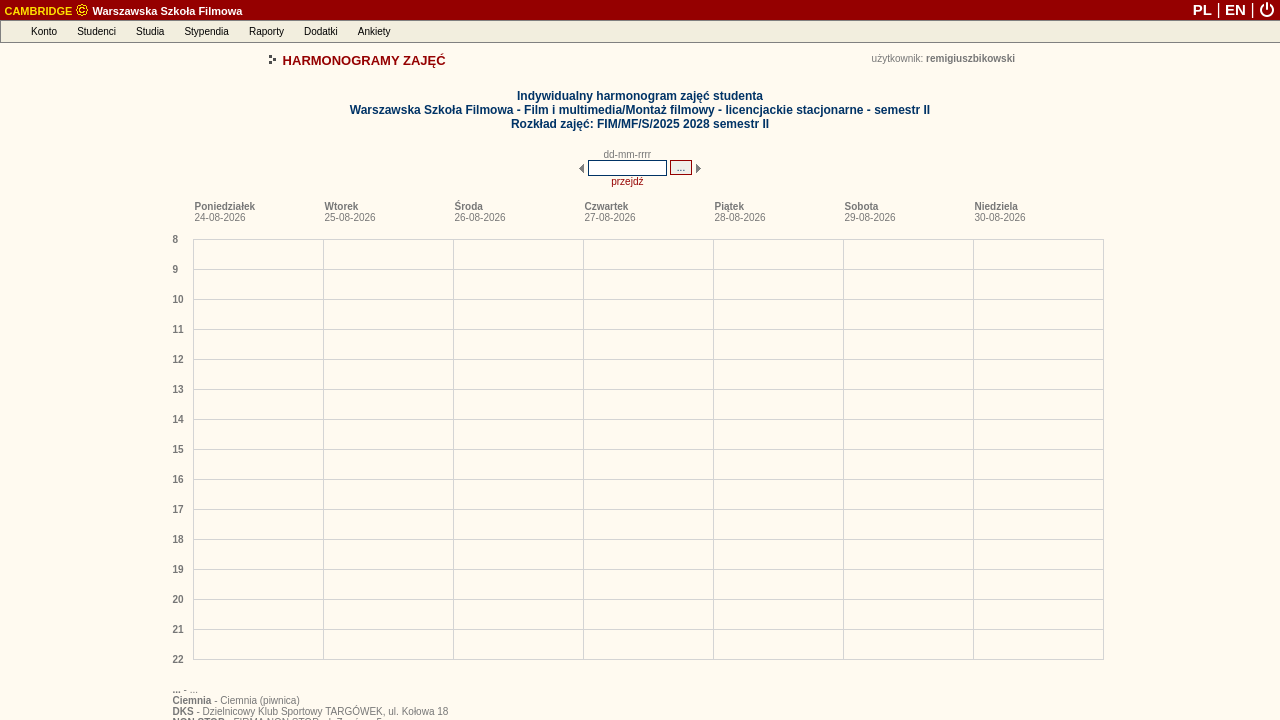
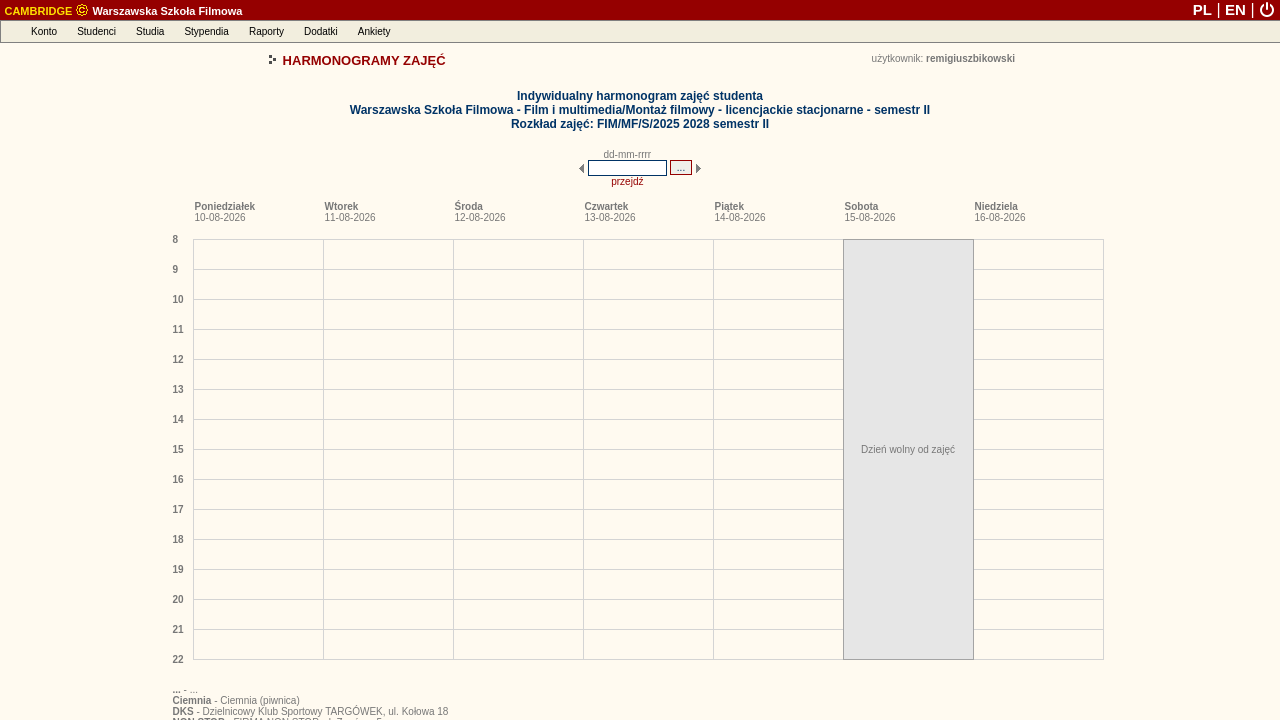
deploy: 0089a95886e71301e0455e70b701082a0dc46df1

Changed region(s): [[0.6562, 0.3056, 0.7812, 0.9167]]

diff --git a/debug_harmonogram_page.html b/debug_harmonogram_page.html
@@ -163,8 +163,8 @@
 
 
 
-<link rel="stylesheet" type="text/css" href="/palio/html.run?_Instance=cambridge&amp;_PageID=4&amp;_SessionID=1707148&amp;_SessionKey=1797391153&amp;ZoomView=&amp;DisplayMode=&amp;_CheckSum=225564752">
-<script language="javascript" type="text/javascript" src="/palio/html.run?_Instance=cambridge&amp;_PageID=5&amp;_SessionID=1707148&amp;_SessionKey=1797391153&amp;_CheckSum=-1857461768"></script>
+<link rel="stylesheet" type="text/css" href="/palio/html.run?_Instance=cambridge&amp;_PageID=4&amp;_SessionID=1707366&amp;_SessionKey=410224080&amp;ZoomView=&amp;DisplayMode=&amp;_CheckSum=1309540697">
+<script language="javascript" type="text/javascript" src="/palio/html.run?_Instance=cambridge&amp;_PageID=5&amp;_SessionID=1707366&amp;_SessionKey=410224080&amp;_CheckSum=-272144399"></script>
 
 
 
@@ -354,9 +354,9 @@ CambridgeMenuBar = new jsDOMenuBar("absolute", true)
 
 AccountMenu=new jsDOMenu(200, "", "absolute", false);
 
-AccountMenu.addMenuItem(new menuItem("Zmiana hasła", "", "/palio/html.run?_Instance=cambridge&amp;_PageID=11&amp;_SessionID=1707148&amp;_SessionKey=1797391153&amp;_CheckSum=171572073"));
+AccountMenu.addMenuItem(new menuItem("Zmiana hasła", "", "/palio/html.run?_Instance=cambridge&amp;_PageID=11&amp;_SessionID=1707366&amp;_SessionKey=410224080&amp;_CheckSum=-1869259680"));
 
-  AccountMenu.addMenuItem(new menuItem("Komunikator", "", "/palio/html.run?_Instance=cambridge&amp;_PageID=180&amp;_SessionID=1707148&amp;_SessionKey=1797391153&amp;_CheckSum=-633387708"));
+  AccountMenu.addMenuItem(new menuItem("Komunikator", "", "/palio/html.run?_Instance=cambridge&amp;_PageID=180&amp;_SessionID=1707366&amp;_SessionKey=410224080&amp;_CheckSum=-232658139"));
 
 
 
@@ -369,7 +369,7 @@ AccountMenu.addMenuItem(new menuItem("Yammer", "", "https://www.yammer.com/onlin
 
 AccountMenu.addMenuItem(new menuItem("-"));
 
-AccountMenu.addMenuItem(new menuItem("Wylogowanie", "", "https://student.szkolafilmowa.pl/palio/html.run?_Instance=cambridge&amp;_PageID=10012&amp;_Action=Logout&amp;_SessionID=1707148&amp;_SessionKey=1797391153"));
+AccountMenu.addMenuItem(new menuItem("Wylogowanie", "", "https://student.szkolafilmowa.pl/palio/html.run?_Instance=cambridge&amp;_PageID=10012&amp;_Action=Logout&amp;_SessionID=1707366&amp;_SessionKey=410224080"));
 
 CambridgeMenuBar.addMenuBarItem(new menuBarItem("Konto", AccountMenu));
 
@@ -382,12 +382,12 @@ StudentsMenu=new jsDOMenu(320, "", "absolute", false);
 
 
 
-StudentsMenu.addMenuItem(new menuItem("Moje dane", "", "/palio/html.run?_Instance=cambridge&amp;_PageID=185&amp;_SessionID=1707148&amp;_SessionKey=1797391153&amp;_CheckSum=-1696548641"));
+StudentsMenu.addMenuItem(new menuItem("Moje dane", "", "/palio/html.run?_Instance=cambridge&amp;_PageID=185&amp;_SessionID=1707366&amp;_SessionKey=410224080&amp;_CheckSum=-1375332310"));
 
 
 
 
-StudentsMenu.addMenuItem(new menuItem("Moje indeksy", "", "/palio/html.run?_Instance=cambridge&amp;_PageID=186&amp;_SessionID=1707148&amp;_SessionKey=1797391153&amp;_CheckSum=667799550"));
+StudentsMenu.addMenuItem(new menuItem("Moje indeksy", "", "/palio/html.run?_Instance=cambridge&amp;_PageID=186&amp;_SessionID=1707366&amp;_SessionKey=410224080&amp;_CheckSum=-744873685"));
 
 
 
@@ -426,7 +426,7 @@ StudiesMenu=new jsDOMenu(250, "", "absolute", false);
 
 
 
-StudiesMenu.addMenuItem(new menuItem("Moje plany studiów", "", "/palio/html.run?_Instance=cambridge&amp;_PageID=258&amp;_SessionID=1707148&amp;_SessionKey=1797391153&amp;_CheckSum=361390936"));
+StudiesMenu.addMenuItem(new menuItem("Moje plany studiów", "", "/palio/html.run?_Instance=cambridge&amp;_PageID=258&amp;_SessionID=1707366&amp;_SessionKey=410224080&amp;_CheckSum=-2001683823"));
 
 
 
@@ -434,13 +434,13 @@ StudiesMenu.addMenuItem(new menuItem("Moje plany studiów", "", "/palio/html.run
 
 
 
-StudiesMenu.addMenuItem(new menuItem("Harmonogramy zajęć", "", "/palio/html.run?_Instance=cambridge&amp;_PageID=95&amp;_SessionID=1707148&amp;_SessionKey=1797391153&amp;_CheckSum=-1013137939"));
+StudiesMenu.addMenuItem(new menuItem("Harmonogramy zajęć", "", "/palio/html.run?_Instance=cambridge&amp;_PageID=95&amp;_SessionID=1707366&amp;_SessionKey=410224080&amp;_CheckSum=-1907476132"));
 
-StudiesMenu.addMenuItem(new menuItem("Harmonogramy moich zajęć", "", "/palio/html.run?_Instance=cambridge&amp;_PageID=191&amp;_SessionID=1707148&amp;_SessionKey=1797391153&amp;_CheckSum=2011310372"));
+StudiesMenu.addMenuItem(new menuItem("Harmonogramy moich zajęć", "", "/palio/html.run?_Instance=cambridge&amp;_PageID=191&amp;_SessionID=1707366&amp;_SessionKey=410224080&amp;_CheckSum=-1532818619"));
 
-StudiesMenu.addMenuItem(new menuItem("Harmonogramy innych zajęć", "", "/palio/html.run?_Instance=cambridge&amp;_PageID=248&amp;_SessionID=1707148&amp;_SessionKey=1797391153&amp;_CheckSum=81041047"));
+StudiesMenu.addMenuItem(new menuItem("Harmonogramy innych zajęć", "", "/palio/html.run?_Instance=cambridge&amp;_PageID=248&amp;_SessionID=1707366&amp;_SessionKey=410224080&amp;_CheckSum=-71064718"));
 
-StudiesMenu.addMenuItem(new menuItem("Harmonogramy zajętości sal", "", "/palio/html.run?_Instance=cambridge&amp;_PageID=269&amp;_SessionID=1707148&amp;_SessionKey=1797391153&amp;_CheckSum=-1288878280"));
+StudiesMenu.addMenuItem(new menuItem("Harmonogramy zajętości sal", "", "/palio/html.run?_Instance=cambridge&amp;_PageID=269&amp;_SessionID=1707366&amp;_SessionKey=410224080&amp;_CheckSum=993122993"));
 
 
 
@@ -470,9 +470,9 @@ CambridgeMenuBar.addMenuBarItem(new menuBarItem("Studia", StudiesMenu));
 ScholarshipsMenu=new jsDOMenu(230, "", "absolute", false);
 
 
-ScholarshipsMenu.addMenuItem(new menuItem("Moje stypendia", "", "/palio/html.run?_Instance=cambridge&amp;_PageID=187&amp;_SessionID=1707148&amp;_SessionKey=1797391153&amp;_CheckSum=-1262819555"));
+ScholarshipsMenu.addMenuItem(new menuItem("Moje stypendia", "", "/palio/html.run?_Instance=cambridge&amp;_PageID=187&amp;_SessionID=1707366&amp;_SessionKey=410224080&amp;_CheckSum=-114415060"));
 
-ScholarshipsMenu.addMenuItem(new menuItem("Mój numer rachunku", "", "/palio/html.run?_Instance=cambridge&amp;_PageID=380&amp;_SessionID=1707148&amp;_SessionKey=1797391153&amp;_CheckSum=-431563774"));
+ScholarshipsMenu.addMenuItem(new menuItem("Mój numer rachunku", "", "/palio/html.run?_Instance=cambridge&amp;_PageID=380&amp;_SessionID=1707366&amp;_SessionKey=410224080&amp;_CheckSum=328041639"));
 
 
 
@@ -482,9 +482,9 @@ ScholarshipsMenu.addMenuItem(new menuItem("Mój numer rachunku", "", "/palio/htm
 ScholarshipsMenu.addMenuItem(new menuItem("-"));
 
 
-ScholarshipsMenu.addMenuItem(new menuItem("Fundusze stypendialne", "", "/palio/html.run?_Instance=cambridge&amp;_PageID=54&amp;_SessionID=1707148&amp;_SessionKey=1797391153&amp;_CheckSum=-203918390"));
+ScholarshipsMenu.addMenuItem(new menuItem("Fundusze stypendialne", "", "/palio/html.run?_Instance=cambridge&amp;_PageID=54&amp;_SessionID=1707366&amp;_SessionKey=410224080&amp;_CheckSum=889574367"));
 
-ScholarshipsMenu.addMenuItem(new menuItem("Rodzaje stypendiów", "", "/palio/html.run?_Instance=cambridge&amp;_PageID=55&amp;_SessionID=1707148&amp;_SessionKey=1797391153&amp;_CheckSum=-2134537495"));
+ScholarshipsMenu.addMenuItem(new menuItem("Rodzaje stypendiów", "", "/palio/html.run?_Instance=cambridge&amp;_PageID=55&amp;_SessionID=1707366&amp;_SessionKey=410224080&amp;_CheckSum=1520032992"));
 
 
 
@@ -495,7 +495,7 @@ CambridgeMenuBar.addMenuBarItem(new menuBarItem("Stypendia", ScholarshipsMenu));
 ReportsMenu=new jsDOMenu(200, "", "absolute", false);
 
 
-ReportsMenu.addMenuItem(new menuItem("Generowanie raportów", "", "/palio/html.run?_Instance=cambridge&amp;_PageID=68&amp;_SessionID=1707148&amp;_SessionKey=1797391153&amp;_CheckSum=943889671"));
+ReportsMenu.addMenuItem(new menuItem("Generowanie raportów", "", "/palio/html.run?_Instance=cambridge&amp;_PageID=68&amp;_SessionID=1707366&amp;_SessionKey=410224080&amp;_CheckSum=1480789762"));
 
 
 
@@ -505,7 +505,7 @@ CambridgeMenuBar.addMenuBarItem(new menuBarItem("Raporty", ReportsMenu));
 
 AdditionalsMenu=new jsDOMenu(200, "", "absolute", false);
 
-AdditionalsMenu.addMenuItem(new menuItem("Forum internetowe", "", "/palio/html.run?_Instance=cambridge&amp;_PageID=8001&amp;_SessionID=1707148&amp;_SessionKey=1797391153&amp;_CheckSum=200326448"));
+AdditionalsMenu.addMenuItem(new menuItem("Forum internetowe", "", "/palio/html.run?_Instance=cambridge&amp;_PageID=8001&amp;_SessionID=1707366&amp;_SessionKey=410224080&amp;_CheckSum=-1314142791"));
 
 
 
@@ -539,7 +539,7 @@ PollsMenu=new jsDOMenu(225, "", "absolute", false);
 
 
 
-PollsMenu.addMenuItem(new menuItem("Wypełnianie ankiet", "", "/palio/html.run?_Instance=cambridge&amp;_PageID=227&amp;_SessionID=1707148&amp;_SessionKey=1797391153&amp;_CheckSum=1450960374"));
+PollsMenu.addMenuItem(new menuItem("Wypełnianie ankiet", "", "/palio/html.run?_Instance=cambridge&amp;_PageID=227&amp;_SessionID=1707366&amp;_SessionKey=410224080&amp;_CheckSum=-1135252429"));
 
 
 CambridgeMenuBar.addMenuBarItem(new menuBarItem("Ankiety", PollsMenu));
@@ -576,7 +576,7 @@ CambridgeMenuBar.moveTo(0,20);
 <table width="100%" border="0" cellspacing="0" cellpadding="0" align="center">
 <tbody><tr class="top_belt">
 
-<td align="left" height="20"><b>&nbsp;<a class="belt" href="/palio/html.run?_Instance=cambridge&amp;_PageID=6&amp;_SessionID=1707148&amp;_SessionKey=1797391153&amp;_CheckSum=506886423"><span class="belt_application">CAMBRIDGE</span> <img src="/palio/html.media?_Instance=cambridge&amp;_Option=Palio&amp;_ID=51&amp;_CheckSum=684598873" width="14" height="14" border="0" style="position:relative;top:-2px;vertical-align:bottom"> Warszawska Szkoła Filmowa</a></b></td>
+<td align="left" height="20"><b>&nbsp;<a class="belt" href="/palio/html.run?_Instance=cambridge&amp;_PageID=6&amp;_SessionID=1707366&amp;_SessionKey=410224080&amp;_CheckSum=358314226"><span class="belt_application">CAMBRIDGE</span> <img src="/palio/html.media?_Instance=cambridge&amp;_Option=Palio&amp;_ID=51&amp;_CheckSum=684598873" width="14" height="14" border="0" style="position:relative;top:-2px;vertical-align:bottom"> Warszawska Szkoła Filmowa</a></b></td>
 <td align="right">
 
 
@@ -587,13 +587,13 @@ CambridgeMenuBar.moveTo(0,20);
 
 
 
-<a href="/palio/html.run?_Instance=cambridge&amp;_PageID=6&amp;_SessionID=1707148&amp;_SessionKey=1797391153&amp;SetLanguage=pl&amp;_CheckSum=-764907613" class="belt" style="font-size:15px;line-height:18px;text-decoration:none" title="polski"><b>PL</b></a>
+<a href="/palio/html.run?_Instance=cambridge&amp;_PageID=6&amp;_SessionID=1707366&amp;_SessionKey=410224080&amp;SetLanguage=pl&amp;_CheckSum=-301171736" class="belt" style="font-size:15px;line-height:18px;text-decoration:none" title="polski"><b>PL</b></a>
 <span class="belt" style="font-size:16px">|</span>
-<a href="/palio/html.run?_Instance=cambridge&amp;_PageID=6&amp;_SessionID=1707148&amp;_SessionKey=1797391153&amp;SetLanguage=en&amp;_CheckSum=1127875670" class="belt" style="font-size:15px;line-height:18px;text-decoration:none" title="english"><b>EN</b></a>
+<a href="/palio/html.run?_Instance=cambridge&amp;_PageID=6&amp;_SessionID=1707366&amp;_SessionKey=410224080&amp;SetLanguage=en&amp;_CheckSum=1591611547" class="belt" style="font-size:15px;line-height:18px;text-decoration:none" title="english"><b>EN</b></a>
 <span class="belt" style="font-size:16px">|</span>
 
 
-<img src="/palio/html.media?_Instance=cambridge&amp;_Option=Palio&amp;_ID=94&amp;_CheckSum=-1316787974" style="cursor:pointer;vertical-align:bottom;margin-bottom:2px;margin-right:5px" alt="Wyloguj" title="Wyloguj" onclick="if(confirm('Czy na pewno chcesz się wylogować?'))window.location='https://student.szkolafilmowa.pl/palio/html.run?_Instance=cambridge&amp;_PageID=10012&amp;_Action=Logout&amp;_SessionID=1707148&amp;_SessionKey=1797391153'">
+<img src="/palio/html.media?_Instance=cambridge&amp;_Option=Palio&amp;_ID=94&amp;_CheckSum=-1316787974" style="cursor:pointer;vertical-align:bottom;margin-bottom:2px;margin-right:5px" alt="Wyloguj" title="Wyloguj" onclick="if(confirm('Czy na pewno chcesz się wylogować?'))window.location='https://student.szkolafilmowa.pl/palio/html.run?_Instance=cambridge&amp;_PageID=10012&amp;_Action=Logout&amp;_SessionID=1707366&amp;_SessionKey=410224080'">
 </td>
 
 </tr>
@@ -2195,16 +2195,16 @@ document.schedule_scroll_form.submit();
 }
 function goForward()
 {
-document.schedule_scroll_form._firstDayOfWeek.value = '31-08-2026';
+document.schedule_scroll_form._firstDayOfWeek.value = '17-08-2026';
 document.schedule_scroll_form.submit();
 }
 function goBackward()
 {
-document.schedule_scroll_form._firstDayOfWeek.value = '22-08-2026';
+document.schedule_scroll_form._firstDayOfWeek.value = '08-08-2026';
 document.schedule_scroll_form.submit();
 }
 </script>
-<form method="post" name="schedule_scroll_form" id="schedule_scroll_form" action="/palio/html.run?_Instance=cambridge&amp;_PageID=191&amp;_SessionID=1707148&amp;_SessionKey=1797391153&amp;_RowID=7251&amp;_RowIDType=I&amp;_CheckSum=-374411366" onsubmit="return checkFrm_schedule_scroll_form(this)">
+<form method="post" name="schedule_scroll_form" id="schedule_scroll_form" action="/palio/html.run?_Instance=cambridge&amp;_PageID=191&amp;_SessionID=1707366&amp;_SessionKey=410224080&amp;_RowID=7251&amp;_RowIDType=I&amp;_CheckSum=1093309849" onsubmit="return checkFrm_schedule_scroll_form(this)">
 <div style="display:none;"><input type="hidden" name="_formSubmitted" value="yes"></div>
 <input type="hidden" name="_firstDayOfWeek">
 <table cellspacing="0" cellpadding="0" border="0" align="center">
@@ -2942,6 +2942,22 @@ return true;
 
 
 
+
+
+
+
+
+
+
+
+
+
+
+
+
+
+
+
 <br>
 
 
@@ -2953,6 +2969,9 @@ return true;
 
 
 
+ 
+ 
+ 
 
 
 
@@ -3005,6 +3024,52 @@ return true;
 
 
 
+
+
+
+
+
+
+
+
+
+
+
+
+
+
+
+
+
+
+
+
+
+
+
+
+
+
+
+
+
+
+
+
+
+
+
+
+
+
+
+
+
+
+
+
+
+  
 
 
 
@@ -3463,7 +3528,7 @@ tipDivElement.style.visibility="hidden"
 <tbody><tr><td class="font">
 <b class="font">Poniedziałek</b><br>
 
-<span class="font">24-08-2026</span>
+<span class="font">10-08-2026</span>
 </td></tr>
 </tbody></table>
 </div>
@@ -3478,7 +3543,7 @@ tipDivElement.style.visibility="hidden"
 <tbody><tr><td class="font">
 <b class="font">Wtorek</b><br>
 
-<span class="font">25-08-2026</span>
+<span class="font">11-08-2026</span>
 </td></tr>
 </tbody></table>
 </div>
@@ -3493,7 +3558,7 @@ tipDivElement.style.visibility="hidden"
 <tbody><tr><td class="font">
 <b class="font">Środa</b><br>
 
-<span class="font">26-08-2026</span>
+<span class="font">12-08-2026</span>
 </td></tr>
 </tbody></table>
 </div>
@@ -3508,7 +3573,7 @@ tipDivElement.style.visibility="hidden"
 <tbody><tr><td class="font">
 <b class="font">Czwartek</b><br>
 
-<span class="font">27-08-2026</span>
+<span class="font">13-08-2026</span>
 </td></tr>
 </tbody></table>
 </div>
@@ -3523,7 +3588,7 @@ tipDivElement.style.visibility="hidden"
 <tbody><tr><td class="font">
 <b class="font">Piątek</b><br>
 
-<span class="font">28-08-2026</span>
+<span class="font">14-08-2026</span>
 </td></tr>
 </tbody></table>
 </div>
@@ -3538,7 +3603,7 @@ tipDivElement.style.visibility="hidden"
 <tbody><tr><td class="font">
 <b class="font">Sobota</b><br>
 
-<span class="font">29-08-2026</span>
+<span class="font">15-08-2026</span>
 </td></tr>
 </tbody></table>
 </div>
@@ -3553,7 +3618,7 @@ tipDivElement.style.visibility="hidden"
 <tbody><tr><td class="font">
 <b class="font">Niedziela</b><br>
 
-<span class="font">30-08-2026</span>
+<span class="font">16-08-2026</span>
 </td></tr>
 </tbody></table>
 </div>
@@ -3562,6 +3627,34 @@ tipDivElement.style.visibility="hidden"
 
 
 
+
+
+
+
+
+
+
+
+
+
+
+
+
+
+<div style="
+position:absolute;
+top:0;
+left:670;
+width:129;
+height:419.00;
+layer-background-color:#E6E6E6;
+background-color:#E6E6E6;
+border:1px solid #A4A4A4;
+z-index:0;">
+<table cellspacing="0" cellpadding="0" align="center" width="129">
+<tbody><tr><td width="129" align="center" class="font" valign="middle" height="419.00">Dzień wolny od zajęć</td></tr>
+</tbody></table>
+</div>
 
 
 </div>
@@ -3588,8 +3681,8 @@ tipDivElement.style.visibility="hidden"
 <td align="right">
 <table cellspacing="0" cellpadding="2" border="0">
 <tbody><tr>
-<td valign="middle"><a class="link" href="/palio/html.run?_Instance=cambridge&amp;_PageID=96&amp;_SessionID=1707148&amp;_SessionKey=1797391153&amp;_RowID=7251&amp;_RowIDType=I&amp;_firstDayOfWeek=24-08-2026&amp;_CheckSum=1179481028" target="_blank">drukuj</a></td>
-<td valign="middle"><a class="link" href="/palio/html.run?_Instance=cambridge&amp;_PageID=96&amp;_SessionID=1707148&amp;_SessionKey=1797391153&amp;_RowID=7251&amp;_RowIDType=I&amp;_firstDayOfWeek=24-08-2026&amp;_CheckSum=1179481028" target="_blank"><img src="/palio/html.media?_Instance=cambridge&amp;_Option=Palio&amp;_ID=26&amp;_CheckSum=1936112049" awidth="16" height="14" alt="drukuj" title="drukuj" border="0"></a></td>
+<td valign="middle"><a class="link" href="/palio/html.run?_Instance=cambridge&amp;_PageID=96&amp;_SessionID=1707366&amp;_SessionKey=410224080&amp;_RowID=7251&amp;_RowIDType=I&amp;_firstDayOfWeek=10-08-2026&amp;_CheckSum=845251480" target="_blank">drukuj</a></td>
+<td valign="middle"><a class="link" href="/palio/html.run?_Instance=cambridge&amp;_PageID=96&amp;_SessionID=1707366&amp;_SessionKey=410224080&amp;_RowID=7251&amp;_RowIDType=I&amp;_firstDayOfWeek=10-08-2026&amp;_CheckSum=845251480" target="_blank"><img src="/palio/html.media?_Instance=cambridge&amp;_Option=Palio&amp;_ID=26&amp;_CheckSum=1936112049" awidth="16" height="14" alt="drukuj" title="drukuj" border="0"></a></td>
 </tr>
 </tbody></table>
 </td>
@@ -3621,7 +3714,7 @@ tipDivElement.style.visibility="hidden"
 
 
 
-<input type="button" name="jump_action" value="Powrót do listy harmonogramów zajęć" class="button" onclick="window.location='/palio/html.run?_Instance=cambridge&amp;_PageID=191&amp;_SessionID=1707148&amp;_SessionKey=1797391153&amp;_CheckSum=2011310372'">
+<input type="button" name="jump_action" value="Powrót do listy harmonogramów zajęć" class="button" onclick="window.location='/palio/html.run?_Instance=cambridge&amp;_PageID=191&amp;_SessionID=1707366&amp;_SessionKey=410224080&amp;_CheckSum=-1532818619'">
 
 
 
@@ -3646,7 +3739,7 @@ tipDivElement.style.visibility="hidden"
 grayscaleImagesIE10Plus();
 </script>
 
-<p align="right" class="font"><i style="color:#aaaaaa">Czas generowania strony 101 ms</i></p>
+<p align="right" class="font"><i style="color:#aaaaaa">Czas generowania strony 100 ms</i></p>
 
 
 </body></html>
